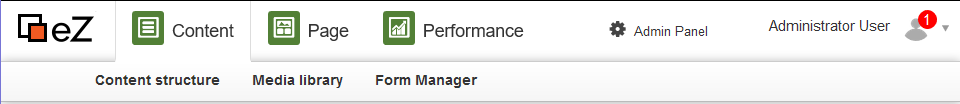
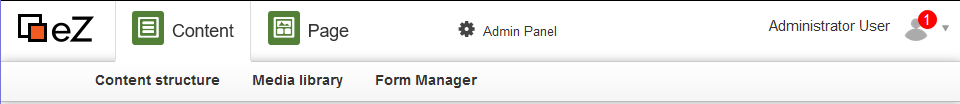
Remove performance tab

Changed region(s): [[0.375, 0.0865, 0.5938, 0.4327], [0.625, 0.2019, 0.75, 0.3462]]

diff --git a/docs/faq.md b/docs/faq.md
@@ -38,7 +38,7 @@ See [installation](https://doc.ezplatform.com/en/latest/getting_started/install_
 
 **In what modes can I work with my content?**
 
-eZ offers three different work modes: **Content mode**, **Page mode** and **Performance mode**.
+eZ offers two different work modes: **Content mode** and **Page mode**.
 
 **What is Content mode?**
 
@@ -57,10 +57,6 @@ Page mode allows you to manage website pages and website content from the pages
 It allows front-end editing, that is modifying pages directly from their preview. Using a special Timeline toolbar you can also preview and modify the content of a page at a future date.
 
 The Page mode offers a special functionality of creating a Landing Page - a special kind of Content with advanced customization options.
-
-**What is Performance mode?**
-
-Performance mode gives access to optimization capabilities such as Analytics and cloud services management tools.
 
 ### Administration
 

diff --git a/docs/glossary.md b/docs/glossary.md
@@ -254,10 +254,6 @@ More information (User Guide): [Under the hood, concepts and organization](under
 
 The editing mode available in [eZ Enterprise](#ez-enterprise). Allows you to plan, create and modify content live, while previewing the effects of the changes in real time.
 
-#### Performance mode
-
-The editing mode available in [Cloud Services](#cloud-services).
-
 #### Permissions
 
 See [Policies](#policy), [Roles](#role).
